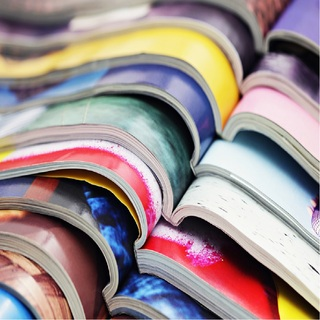
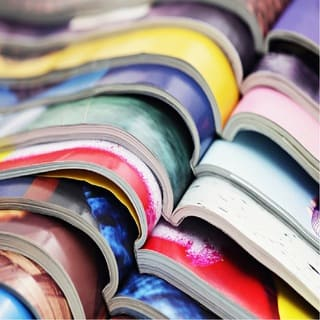
dernier commit

diff --git a/index.html b/index.html
@@ -173,7 +173,7 @@ Nous avons conçu la plateforme idéale pour laisser place aux clichés des phot
 </div>
 <div class="row tight-width-whitespace portfolio-row">
 <div class=col-sm-6>
-<a href=# data-lightbox=img/3.png data-gallery-id=gallery-1 data-caption="Création d'un site internet pour un voyageur" data-frame=snapshot-lb><img src=img/3.png class="img-responsive portfolio-thumb" alt="Photo représentant du matériel de photo et video parfaitement rangé"/></a>
+<a href=# data-lightbox=img/3.jpg data-gallery-id=gallery-1 data-caption="Création d'un site internet pour un voyageur" data-frame=snapshot-lb><img src=img/3.jpg class="img-responsive portfolio-thumb" alt="Photo représentant du matériel de photo et video parfaitement rangé"/></a>
 <h3 tabindex=0 class="mg-md text-center">
 Création d'un site internet pour un voyageur
 </h3>
@@ -183,7 +183,7 @@ articles de ce voyageur.
 </p>
 </div>
 <div class=col-sm-6>
-<a href=# data-lightbox=img/4.png data-gallery-id=gallery-1 data-caption="Conception d'un site pour une agence de mariage" data-frame=snapshot-lb><img src=img/4.png class="img-responsive portfolio-thumb" alt="Photo représentant deux paires de mains préparant des idées de mariage " /></a>
+<a href=# data-lightbox=img/4.jpg data-gallery-id=gallery-1 data-caption="Conception d'un site pour une agence de mariage" data-frame=snapshot-lb><img src=img/4.jpg class="img-responsive portfolio-thumb" alt="Photo représentant deux paires de mains préparant des idées de mariage " /></a>
 <h3 tabindex=0 class="mg-md text-center">
 Conception d'un site pour une agence de mariage
 </h3>
